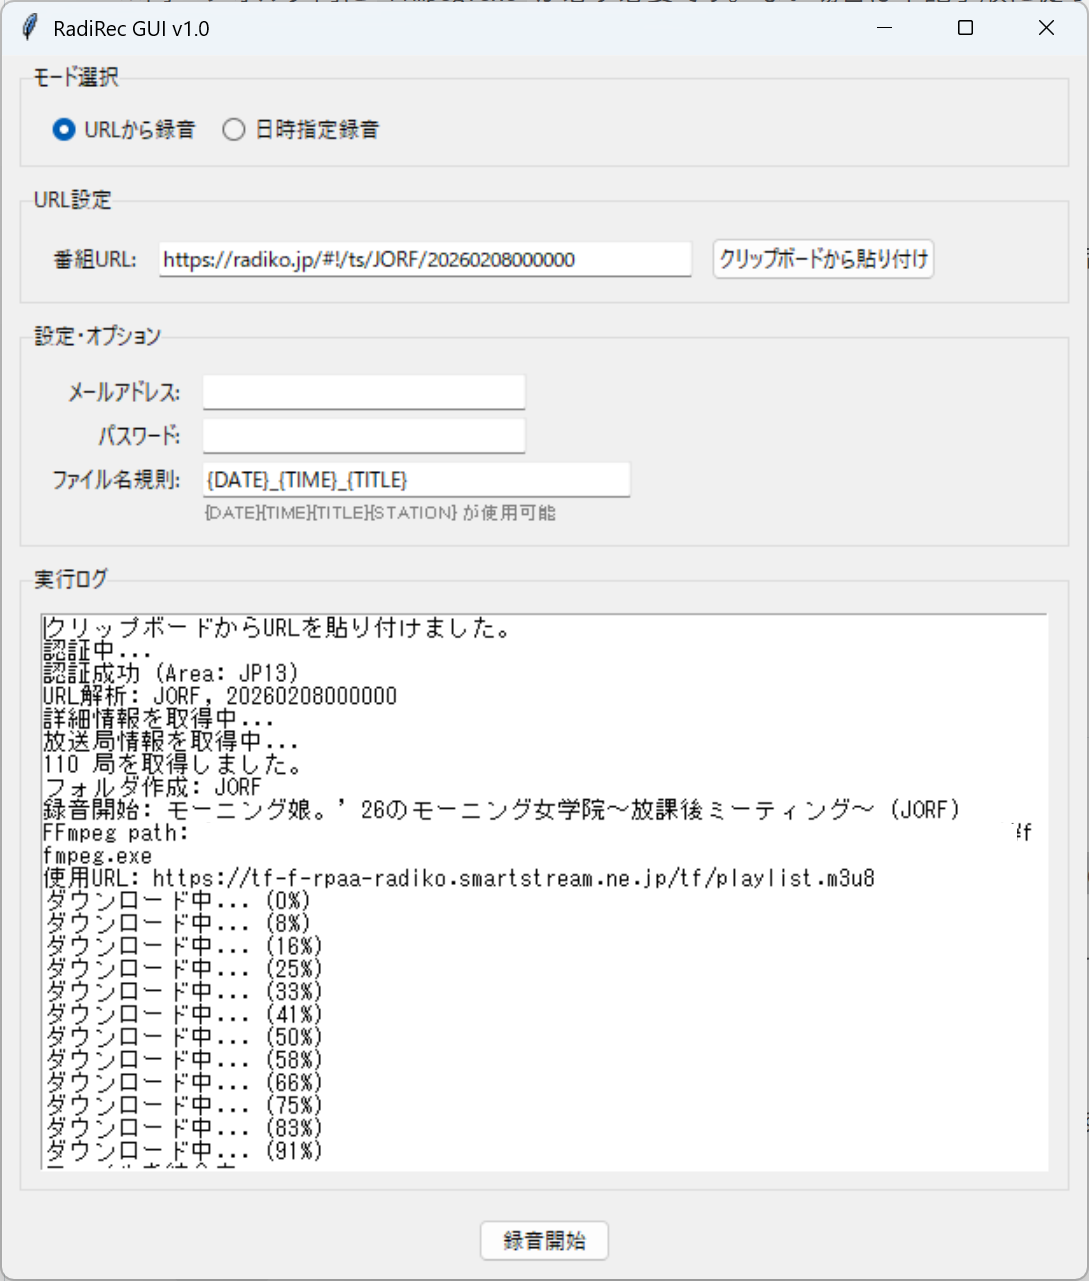
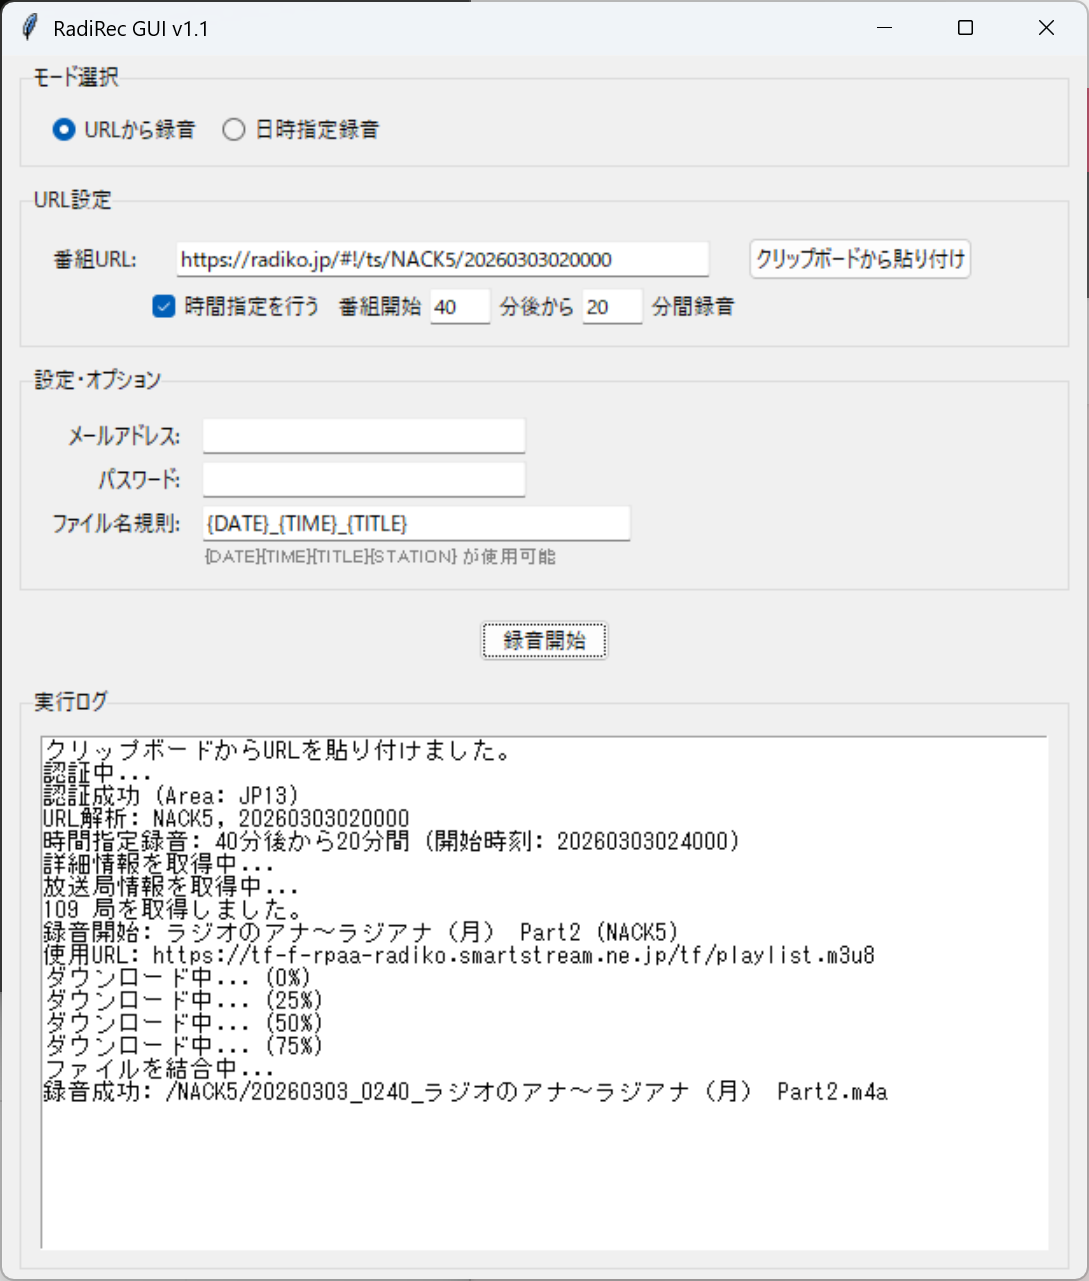
Add time-shift recording feature and refine UI layout

diff --git a/RadiRec_GUI.py b/RadiRec_GUI.py
@@ -1,5 +1,5 @@
 #
-# RadiRec GUI v1.0
+# RadiRec GUI v1.1
 # Copyright (C) 2026 minolabo
 #
 # Based on rec_radiko_ts.sh by uru (https://github.com/uru2/rec_radiko_ts)
@@ -36,7 +36,7 @@ AUTHKEY_VALUE = 'bcd151073c03b352e1ef2fd66c32209da9ca0afa'
 class RadikoRecorderGUI:
     def __init__(self, root):
         self.root = root
-        self.root.title("RadiRec GUI v1.0")
+        self.root.title("RadiRec GUI v1.1")
         self.root.geometry("620x700")
 
         # Variables
@@ -48,6 +48,10 @@ class RadikoRecorderGUI:
         self.mail_var = tk.StringVar()
         self.pass_var = tk.StringVar()
         self.filename_template_var = tk.StringVar(value="{DATE}_{TIME}_{TITLE}")
+        
+        self.url_timeshift_var = tk.BooleanVar(value=False)
+        self.url_delay_var = tk.StringVar(value="0")
+        self.url_duration_var = tk.StringVar(value="60")
         
         self.stations_data = [] # List of (id, name, area_id)
         self.authtoken = None
@@ -68,6 +72,9 @@ class RadikoRecorderGUI:
                     self.mail_var.set(config.get('mail', ''))
                     self.pass_var.set(config.get('password', ''))
                     self.filename_template_var.set(config.get('template', "{DATE}_{TIME}_{TITLE}"))
+                    self.url_timeshift_var.set(config.get('url_timeshift', False))
+                    self.url_delay_var.set(config.get('url_delay', "0"))
+                    self.url_duration_var.set(config.get('url_duration', "60"))
             except Exception as e:
                 print(f"Config load error: {e}")
 
@@ -75,7 +82,10 @@ class RadikoRecorderGUI:
         config = {
             'mail': self.mail_var.get(),
             'password': self.pass_var.get(),
-            'template': self.filename_template_var.get()
+            'template': self.filename_template_var.get(),
+            'url_timeshift': self.url_timeshift_var.get(),
+            'url_delay': self.url_delay_var.get(),
+            'url_duration': self.url_duration_var.get()
         }
         try:
             with open(CONFIG_FILE, 'w', encoding='utf-8') as f:
@@ -117,6 +127,20 @@ class RadikoRecorderGUI:
         ttk.Entry(self.frame_url, textvariable=self.url_var, width=50).grid(row=0, column=1, padx=5, pady=2)
         ttk.Button(self.frame_url, text="クリップボードから貼り付け", command=self.paste_url).grid(row=0, column=2, padx=5, pady=2)
 
+        # Time-shift options for URL
+        self.frame_url_ts = ttk.Frame(self.frame_url)
+        self.frame_url_ts.grid(row=1, column=1, sticky="w", pady=2)
+        ttk.Checkbutton(self.frame_url_ts, text="時間指定を行う", variable=self.url_timeshift_var, command=self.toggle_url_timeshift).pack(side="left")
+        ttk.Label(self.frame_url_ts, text="  番組開始").pack(side="left")
+        self.entry_url_delay = ttk.Entry(self.frame_url_ts, textvariable=self.url_delay_var, width=5)
+        self.entry_url_delay.pack(side="left", padx=2)
+        ttk.Label(self.frame_url_ts, text="分後から").pack(side="left")
+        self.entry_url_duration = ttk.Entry(self.frame_url_ts, textvariable=self.url_duration_var, width=5)
+        self.entry_url_duration.pack(side="left", padx=2)
+        ttk.Label(self.frame_url_ts, text="分間録音").pack(side="left")
+        
+        self.toggle_url_timeshift()
+
         # Config / Naming Options
         frame_opts = ttk.LabelFrame(self.root, text="設定・オプション", padding=10)
         frame_opts.pack(fill="x", padx=10, pady=5)
@@ -131,15 +155,15 @@ class RadikoRecorderGUI:
         ttk.Entry(frame_opts, textvariable=self.filename_template_var, width=40).grid(row=2, column=1, sticky="w", padx=5, pady=2)
         ttk.Label(frame_opts, text="{DATE}{TIME}{TITLE}{STATION} が使用可能", font=("", 8), foreground="gray").grid(row=3, column=1, sticky="w", padx=5)
 
+        # Run Button
+        ttk.Button(self.root, text="録音開始", command=self.run_recording_thread).pack(pady=10)
+        
         # LOG
         frame_log = ttk.LabelFrame(self.root, text="実行ログ", padding=10)
         frame_log.pack(fill="both", expand=True, padx=10, pady=5)
         self.text_log = tk.Text(frame_log, height=12)
         self.text_log.pack(fill="both", expand=True)
 
-        # Run Button
-        ttk.Button(self.root, text="録音開始", command=self.run_recording_thread).pack(pady=10)
-        
         self.toggle_mode()
 
     def toggle_mode(self):
@@ -164,6 +188,11 @@ class RadikoRecorderGUI:
     def log(self, message):
         self.text_log.insert(tk.END, message + "\n")
         self.text_log.see(tk.END)
+
+    def toggle_url_timeshift(self):
+        state = "normal" if self.url_timeshift_var.get() else "disabled"
+        self.entry_url_delay.configure(state=state)
+        self.entry_url_duration.configure(state=state)
 
     def http_request(self, url, headers=None, data=None, method='GET'):
         if headers is None: headers = {}
@@ -349,11 +378,27 @@ class RadikoRecorderGUI:
                 if len(from_time) == 12: from_time += "00"
                 self.log(f"URL解析: {station_id}, {from_time}")
                 dt_start = datetime.datetime.strptime(from_time, "%Y%m%d%H%M%S")
-                # Length from API? for now 1 hour default if URL mode
-                dt_end = dt_start + datetime.timedelta(hours=1)
-                to_time = dt_end.strftime("%Y%m%d%H%M%S")
-            except:
-                self.log("URL解析エラー")
+                
+                # Time-shift logic for URL mode
+                if self.url_timeshift_var.get():
+                    try:
+                        delay = int(self.url_delay_var.get())
+                        duration = int(self.url_duration_var.get())
+                        dt_actual_start = dt_start + datetime.timedelta(minutes=delay)
+                        dt_actual_end = dt_actual_start + datetime.timedelta(minutes=duration)
+                        from_time = dt_actual_start.strftime("%Y%m%d%H%M%S")
+                        to_time = dt_actual_end.strftime("%Y%m%d%H%M%S")
+                        self.log(f"時間指定録音: {delay}分後から{duration}分間 (開始時刻: {from_time})")
+                    except ValueError:
+                        self.log("時間指定が無効なため、番組全体を録音します。")
+                        dt_end = dt_start + datetime.timedelta(hours=1)
+                        to_time = dt_end.strftime("%Y%m%d%H%M%S")
+                else:
+                    # Length from API? for now 1 hour default if URL mode
+                    dt_end = dt_start + datetime.timedelta(hours=1)
+                    to_time = dt_end.strftime("%Y%m%d%H%M%S")
+            except Exception as e:
+                self.log(f"URL解析エラー: {e}")
                 return
 
         # Fetch Title for naming
@@ -422,7 +467,7 @@ class RadikoRecorderGUI:
                 if path_bin:
                     ffmpeg_path = path_bin
             
-            self.log(f"FFmpeg path: {ffmpeg_path}")
+            # self.log(f"FFmpeg path: {ffmpeg_path}")
 
             lsid = secrets.token_hex(16)
             ffmpeg_headers = f"X-Radiko-Authtoken: {self.authtoken}\r\nX-Radiko-AreaId: {self.area_id}"
@@ -534,7 +579,7 @@ class RadikoRecorderGUI:
                 if os.path.exists(cf): os.remove(cf)
 
             if success:
-                self.log(f"録音成功: {os.path.basename(output_file)}")
+                self.log(f"録音成功: /{station_id}/{os.path.basename(output_file)}")
             else:
                 self.log("録音に失敗しました。")
 
